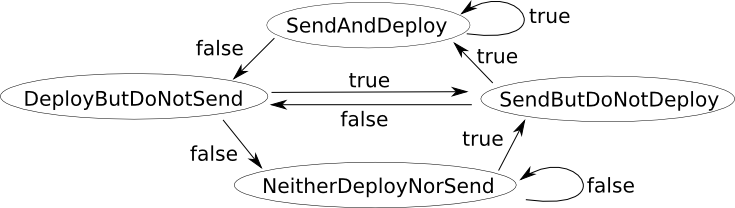
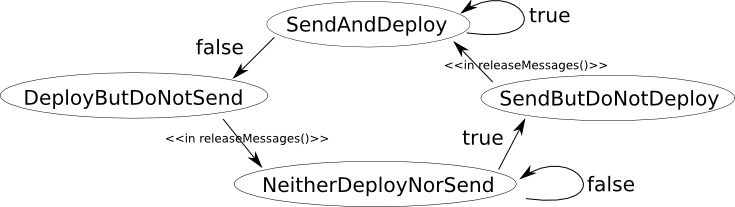
Introduced fix.
git-svn-id: svn://svn.code.sf.net/p/peano/code/trunk/src@1685 aa977e5b-e928-4c84-aa66-c90e40304b12

diff --git a/peano/parallel/SendReceiveBufferPool.cpp b/peano/parallel/SendReceiveBufferPool.cpp
@@ -130,7 +130,7 @@ void peano::parallel::SendReceiveBufferPool::restart() {
 
 
 void peano::parallel::SendReceiveBufferPool::releaseMessages() {
-  logTraceIn( "releaseMessages()" );
+  logTraceInWith1Argument( "releaseMessages()", toString(_mode) );
 
   #if defined(SEND_RECEIVE_BUFFER_POOL_USES_BACKGROUND_THREAD_TO_RECEIVE_DATA)
   _backgroundThread.switchState(BackgroundThread::Suspend);
@@ -147,7 +147,20 @@ void peano::parallel::SendReceiveBufferPool::releaseMessages() {
   _backgroundThread.switchState(BackgroundThread::ReceiveDataInBackground);
   #endif
 
-  logTraceOut( "releaseMessages()" );
+  switch (_mode) {
+    case SendAndDeploy:
+      break;
+    case DeployButDoNotSend:
+      _mode = NeitherDeployNorSend;
+      break;
+    case SendButDoNotDeploy:
+      _mode = SendAndDeploy;
+      break;
+    case NeitherDeployNorSend:
+      break;
+  }
+
+  logTraceOutWith1Argument( "releaseMessages()", toString(_mode) );
 }
 
 
@@ -228,20 +241,10 @@ void peano::parallel::SendReceiveBufferPool::exchangeBoundaryVertices(bool value
       }
       break;
     case DeployButDoNotSend:
-      if (value) {
-        _mode = SendButDoNotDeploy;
-      }
-      else {
-        _mode = NeitherDeployNorSend;
-      }
+      assertionMsg( false, "mode should not be set in-between two iterations" );
       break;
     case SendButDoNotDeploy:
-      if (value) {
-        _mode = SendAndDeploy;
-      }
-      else {
-        _mode = DeployButDoNotSend;
-      }
+      assertionMsg( false, "mode should not be set in-between two iterations" );
       break;
     case NeitherDeployNorSend:
       if (value) {
